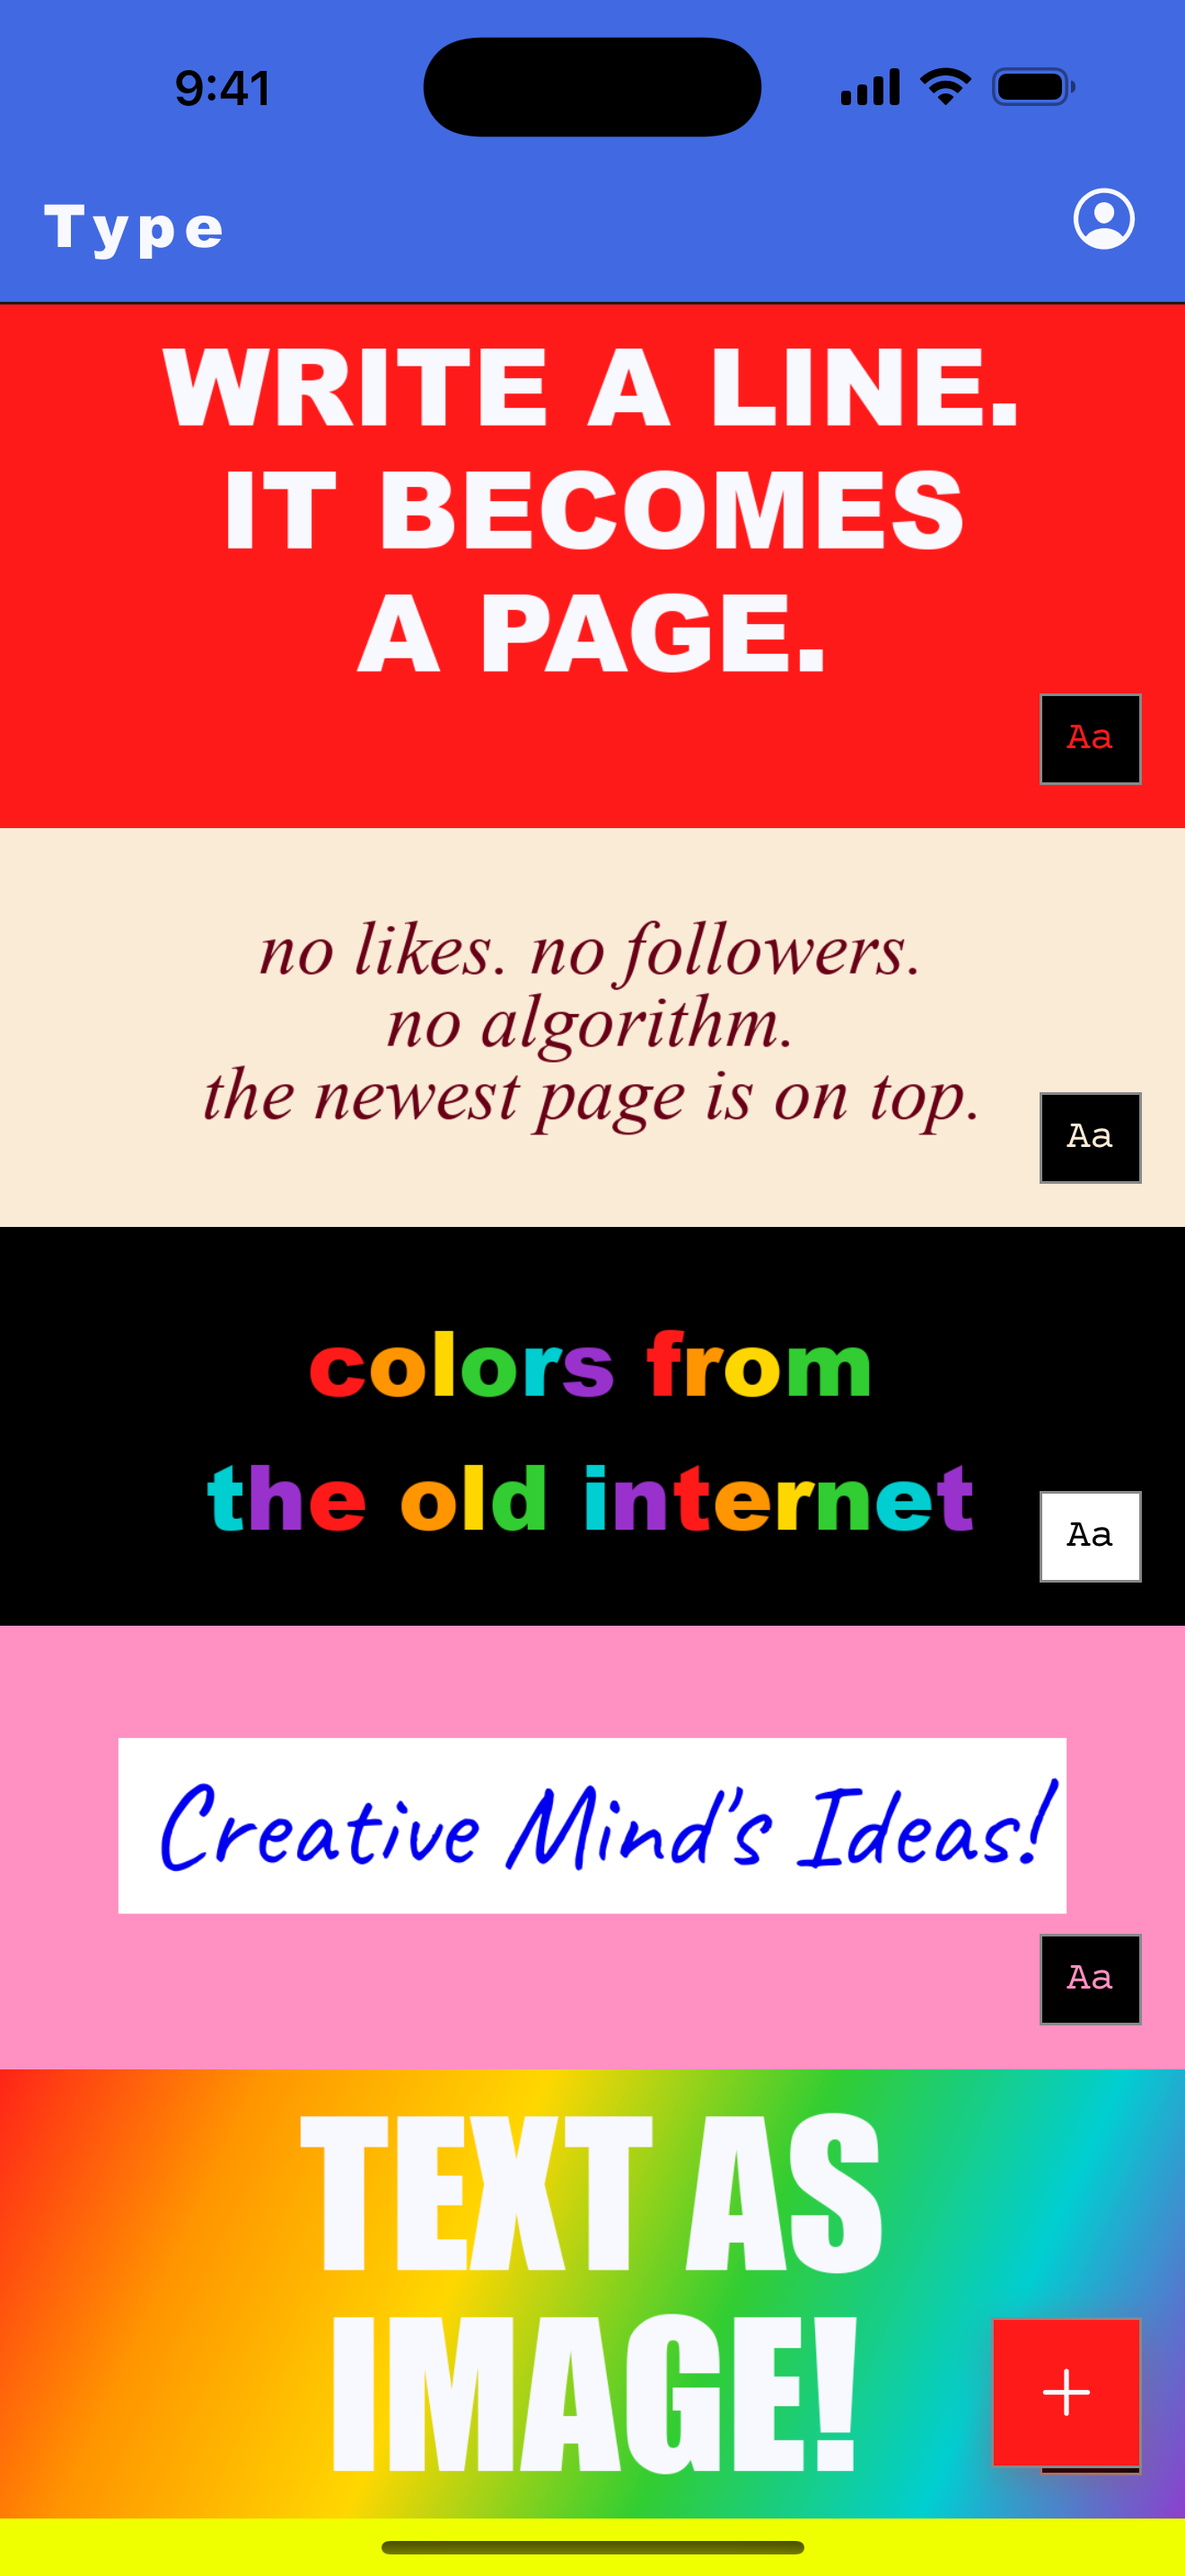
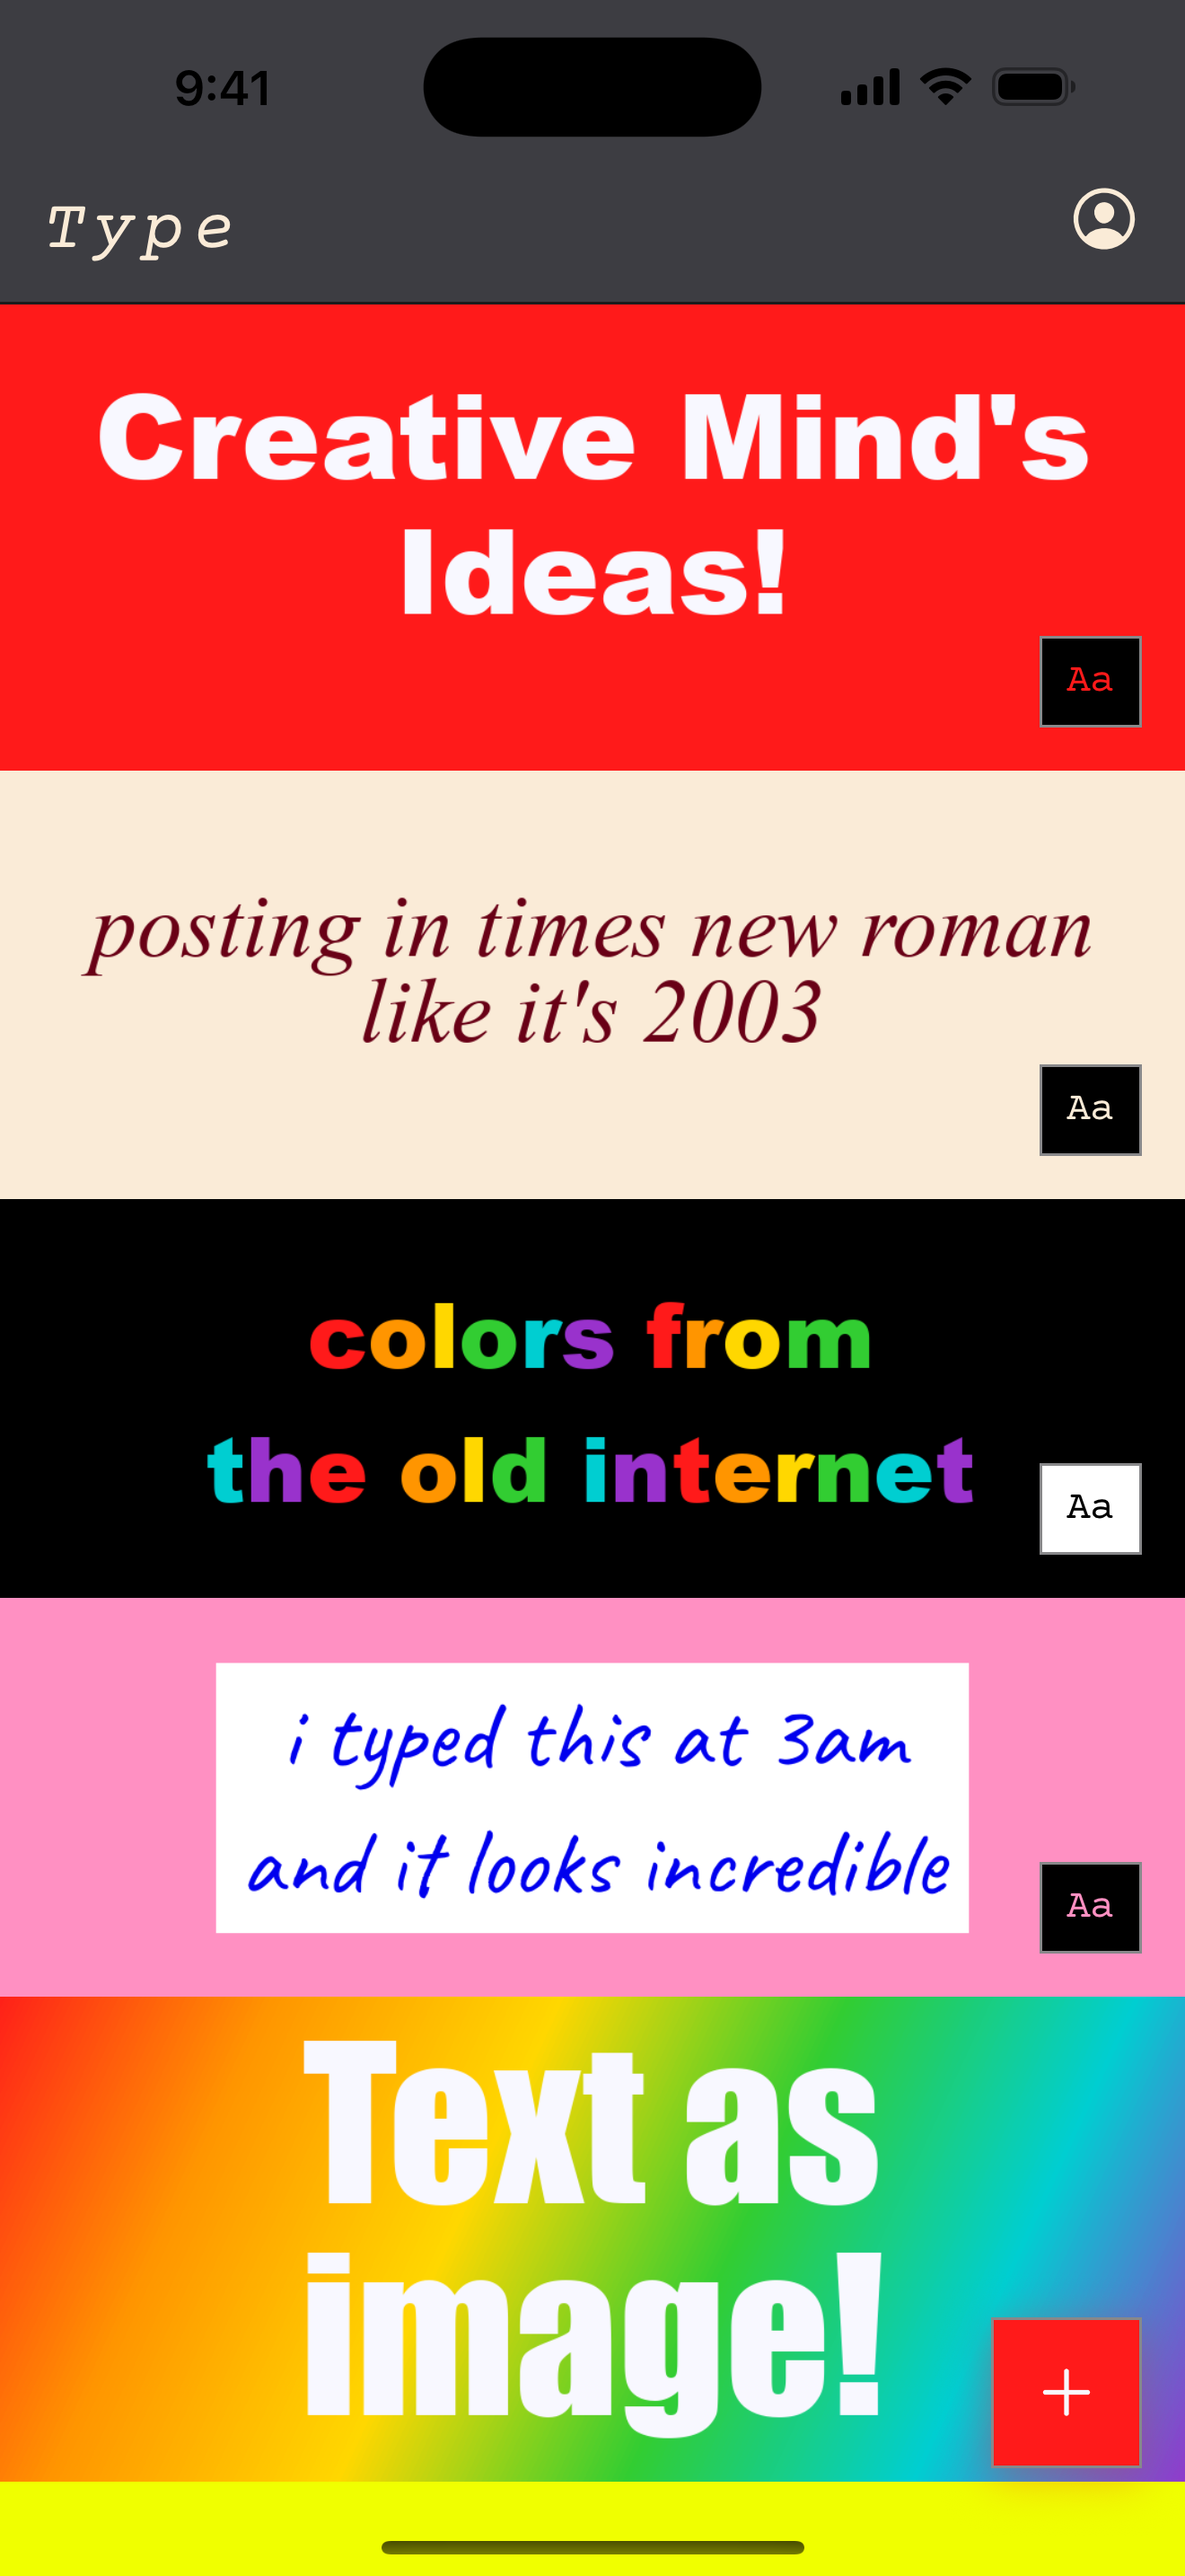
Screenshot copy: Creative Mind's Ideas!, Text as image!, Amazing House Magazine
- Feed: "Creative Mind's Ideas!" replaces WRITE A LINE; "posting in times
  new roman like it's 2003" replaces the manifesto; "i typed this at 3am"
  is back; the gradient reads "Text as image!" in sentence case
- Composer shot's caption is "Amazing House Magazine"
- Seed accounts get a per-run suffix so reseeding never trips the dev
  server's per-device post limit

diff --git a/frontend/scripts/seed-store.ts b/frontend/scripts/seed-store.ts
@@ -32,7 +32,12 @@ const snapshot = (background: string, textElements: CanvasTextElement[], extra: 
   cropTop: 0, cropBottom: H, isSigned: false, ...extra,
 });
 
+// Per-run device ids: reseeding reuses no identity, so the dev server's
+// per-device post limit never trips on a second run
+const RUN = Date.now().toString(36);
+
 async function post(device: string, snap: ReturnType<typeof snapshot>) {
+  device = `${device}-${RUN}`;
   const body = { ...buildPostPayload(snap as ComposerSnapshot), canvas_state: toCanvasState(snap as any) };
   const res = await fetch(`${API}/api/posts/`, {
     method: 'POST', headers: { 'Content-Type': 'application/json', 'X-Device-Id': device },
@@ -64,23 +69,23 @@ async function main() {
   ]));
   await post('seed-ines', snapshot('#FF1A1A', [], {
     backgroundGradient: ['#FF1A1A', '#FF9500', '#FFD700', '#32CD32', '#00CED1', '#9932CC'],
-    textElements: [el('TEXT AS\nIMAGE!', { fontFamily: 'impact', fontSize: 72, color: '#F8F8FF', y: 470 })],
+    textElements: [el('Text as\nimage!', { fontFamily: 'impact', fontSize: 76, color: '#F8F8FF', y: 470 })],
   }));
   await post('seed-maru', snapshot('#FF90C2', [
-    el("Creative Mind's Ideas!", {
-      fontFamily: 'caveat', fontSize: 44, color: '#0000EE', backgroundMode: 'white', hasBackground: true, y: 470,
+    el('i typed this at 3am\nand it looks incredible', {
+      fontFamily: 'caveat', fontSize: 36, color: '#0000EE', backgroundMode: 'white', hasBackground: true, y: 470,
     }),
   ]));
   await post('seed-otto', snapshot('#000000', [
     el('colors from\nthe old internet', { fontFamily: 'arial-black', fontSize: 34, rainbow: true, y: 470 }),
   ]));
   await post('seed-maru', snapshot('#FAEBD7', [
-    el('no likes. no followers.\nno algorithm.\nthe newest page is on top.', {
-      fontFamily: 'crimson-text', fontSize: 28, color: '#690016', italic: true, y: 470,
+    el("posting in times new roman\nlike it's 2003", {
+      fontFamily: 'crimson-text', fontSize: 34, color: '#690016', italic: true, y: 470,
     }),
   ]));
   await post('seed-ines', snapshot('#FF1A1A', [
-    el('WRITE A LINE.\nIT BECOMES\nA PAGE.', { fontFamily: 'arial-black', fontSize: 40, color: '#F8F8FF', y: 470 }),
+    el("Creative Mind's\nIdeas!", { fontFamily: 'arial-black', fontSize: 44, color: '#F8F8FF', y: 470 }),
   ]));
   console.log('seeded 9 posts');
 }
